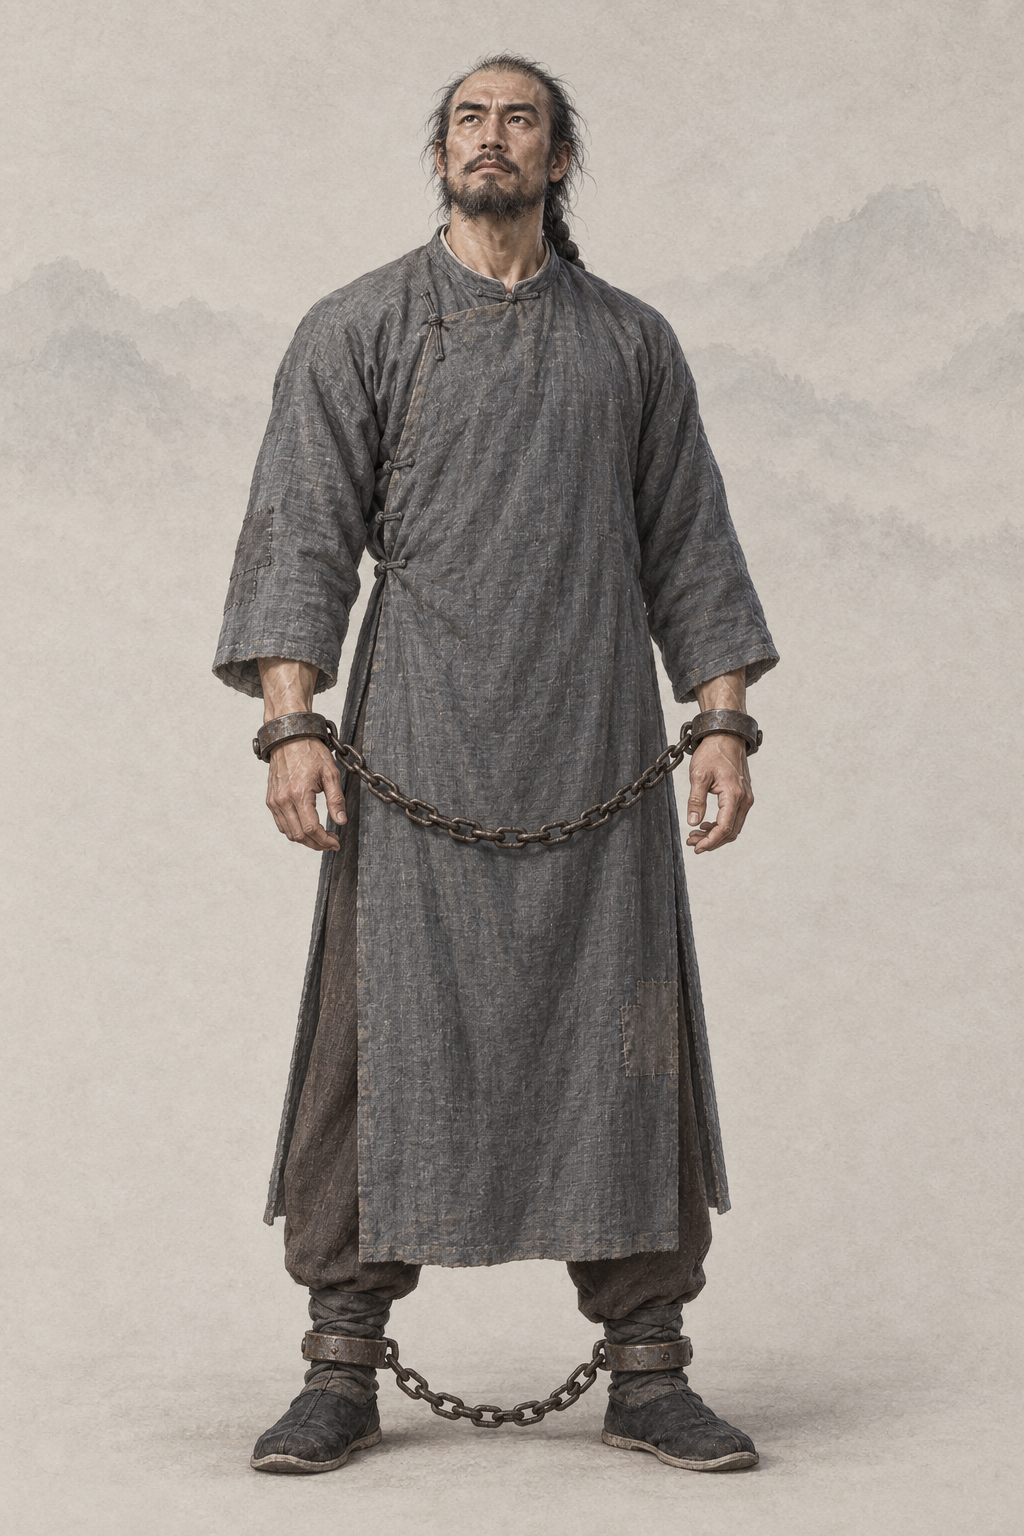
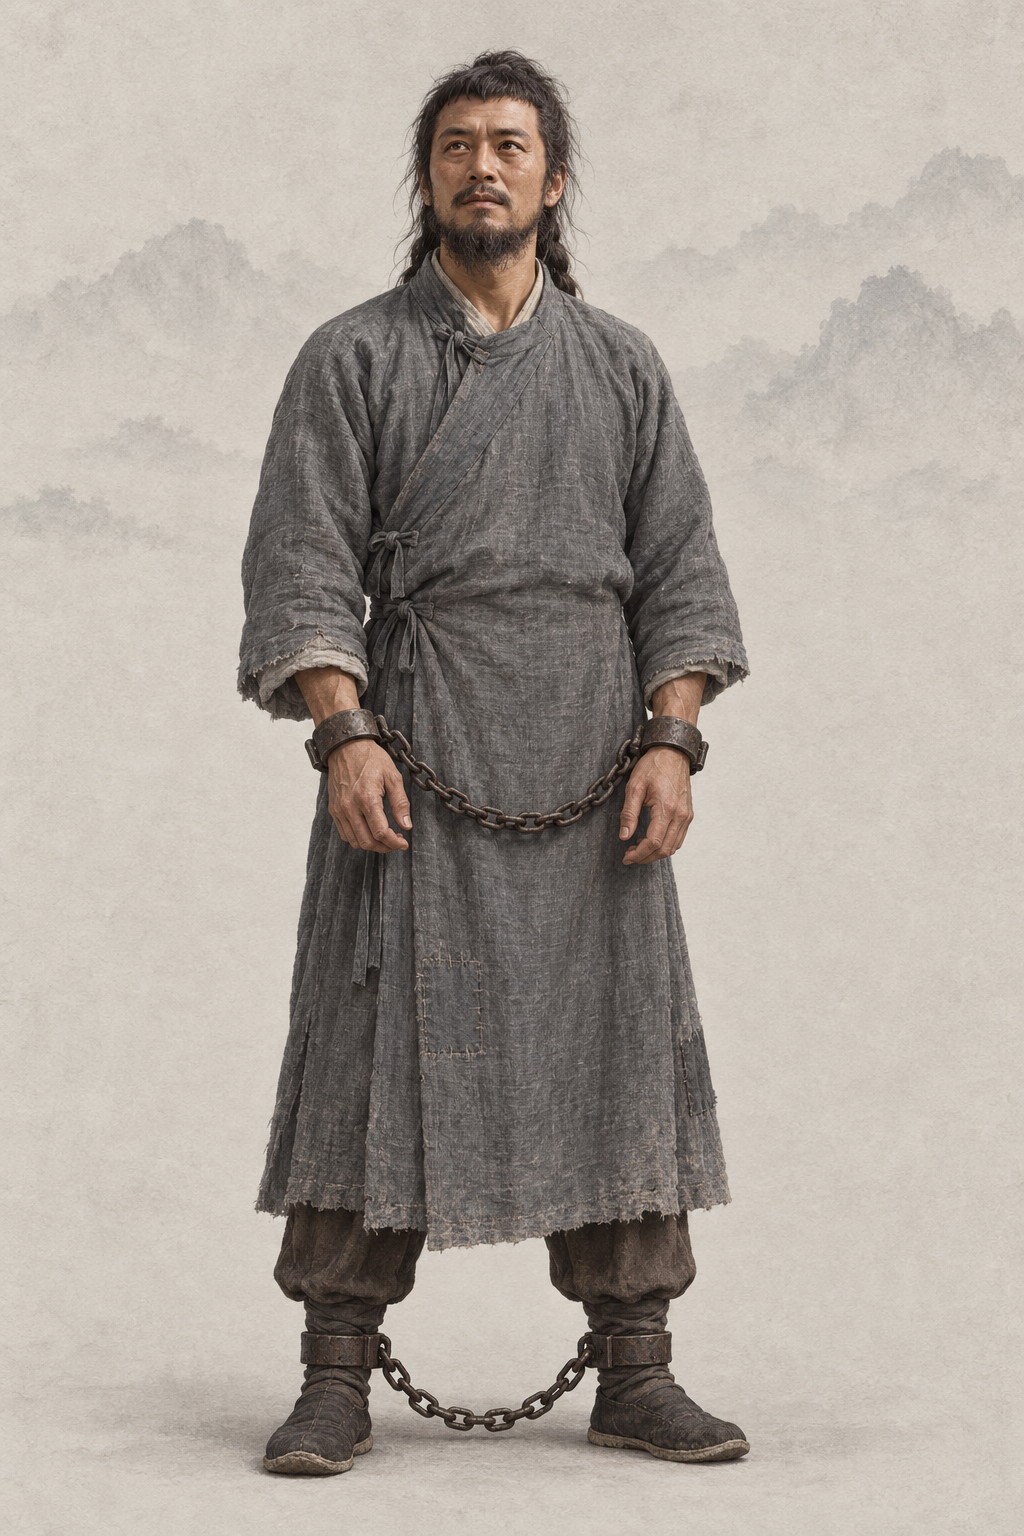
assets(character): por_npc_dingdian__ch09_prime_prison_base 丁典（codex · AR-32 补记修改 B：2004 年内地电视剧《连城诀》（王新民导演，2003 年拍摄、2004 年 7 月首播）；丁典由王海地饰演 剧照 + 基线）
作者 10-02（AR-32 补记）：连城取 2004 版，下载剧照后重出；上一版本机无剧照，只用文字。上传顺序：第 1–2 张为 2004 年《连城诀》丁典剧照（dingdian_2004_wanghaidi_baike04a.jpg、dingdian_2004_wanghaidi_baike04b.jpg 裁去背景石碑文字），最后两张为同性别基线；r1；提示词写回，旧段留作历史。

Changed region(s): [[0.1562, 0.0312, 0.9375, 0.9688], [0.8438, 0.125, 0.875, 0.1562], [0.0938, 0.2188, 0.125, 0.25]]

diff --git a/assets/default/prompts/characters/ch09-liancheng/npc_dingdian.md b/assets/default/prompts/characters/ch09-liancheng/npc_dingdian.md
@@ -12,14 +12,18 @@ references:
   - path: assets/default/baseline/character/male/ref_npc_xiaofeng__ch01_base01.png
     use: 当前仓库 manifest 为 candidate（未通过审批）；只参考纸底、光线、笔触和设色，不沿用脸、体型、服饰或道具
 status: ready
-classic_ref:
-  version: "无剧照（本机没有2004 年《连城诀》电视剧里该角色的剧照，经典造型用文字描写）"
-  stills: []
-  note: "本机没有该角色的经典版剧照，只用文字和两张同性别基线出图（AR-32）"
+codex_prompt_rev: 2026-10-02
+redo_reason: 作者 10-02：连城诀取 2004 版，下载剧照重出（上一版本机无剧照，只用文字）
 reference_upload:
+- .agents/coord/imagegen-reference/identity-20261002/liancheng/dingdian_2004_wanghaidi_baike04a.jpg
+- .agents/coord/imagegen-reference/identity-20261002/liancheng/dingdian_2004_wanghaidi_baike04b.jpg
 - assets/default/baseline/character/male/ref_npc_linghuchong__ch05_base01.png
 - assets/default/baseline/character/male/ref_npc_xiaofeng__ch01_base01.png
-codex_prompt_rev: 2026-10-02
+classic_ref:
+  version: 2004 年内地电视剧《连城诀》（王新民导演，2003 年拍摄、2004 年 7 月首播）；丁典由王海地饰演
+  stills:
+  - .agents/coord/imagegen-reference/identity-20261002/liancheng/dingdian_2004_wanghaidi_baike04a.jpg
+  - .agents/coord/imagegen-reference/identity-20261002/liancheng/dingdian_2004_wanghaidi_baike04b.jpg
 ---
 
 <!-- full-coverage-import:current-policy:v1 -->
@@ -32,6 +36,27 @@ codex_prompt_rev: 2026-10-02
 # 丁典 · 《连城诀》（ch09）
 
 ## Gemini 提示词
+
+> 2026-10-02 AR-32 补记修改 B（9 号出图员，codex exec · image_gen）：作者 10-02（AR-32 补记）：连城取 2004 版，下载剧照后重出；上一版本机无剧照，只用文字。上传顺序：第 1–2 张为 2004 年《连城诀》丁典剧照（dingdian_2004_wanghaidi_baike04a.jpg、dingdian_2004_wanghaidi_baike04b.jpg 裁去背景石碑文字），最后两张为同性别画风基线（缩小版 JPEG）。参考图只借造型、气质与面部特征，画面按项目画风重绘、不复制照片。上一版保留在下一节作历史。
+
+```text
+生成一张 2:3 竖幅全身人物立绘：单人、单一视角、完整全身——头顶、双手、双脚和手中器物的两端都在画面内，四周留出自然空白；人物站姿自然，身体基本朝向正面，头部端正（不歪头、不仰不俯），镜头平视。
+【参考图】第 1–2 张参考图是该角色经典影视造型的剧照：借鉴其发型、服饰、配色、标志道具、气质和面部特征，让人一眼认出是这个角色；但必须重新绘制成项目画风，不要照片质感，不要照搬剧照的构图、光影、背景和姿势，也不要做成照片修图。最后两张是本项目画风基线：画风、用色、光线、质感和暖浅灰纸底加淡水墨背景以它们为准。
+【剧照借鉴要点】剧照是他入狱前在菊花会上的样子：只借脸型、五官、浓眉和温厚沉毅的神情；狱中的乱发浓须、囚衣与铁镣按下文文字画，不要照搬剧照里的白衣和披发。
+【画风】写实手绘古风人物插画，与本项目写实武侠角色立绘同一画风，像功力深厚的画师用细腻笔触画出的真实人物。手绘插画质感，不是 CG 渲染：不要过度光滑的皮肤、完美对称的五官、塑料高光、过度锐利的发丝；保留自然的笔触和细微不完美。皮肤有真实质感——细小毛孔、细纹、晒痕和自然的左右不对称，不磨皮、不油亮；头发是一缕缕自然的发丝和少量碎发；布料看得出经纬纹理、厚薄和自然垂坠的褶皱，带穿用过的轻微旧化，但完整不破烂；整体设色低饱和、沉稳；柔和的自然光从左上方照来，明暗过渡自然，不打舞台光、轮廓光或美颜柔光。不是照片，不是三维渲染，不是动漫或游戏 CG，也不是油画（没有厚涂笔触和画布纹理）。
+【背景】不透明的暖浅灰色纸底，只在远处有极淡的水墨远山和薄雾，大面积留白；人物与背景明暗分明、轮廓边缘干净完整（后续要自动抠图），水墨和纸纹只在背景里，不侵入人物和衣服；脚下只有很淡的一点接触阴影。
+【人物】丁典，《连城诀》中梅念笙的传人、神照经的唯一传人；被囚在荆州大牢多年、与狄云结下信任、尚未中毒出狱的时期，日日隔着窗子望凌霜华窗台上的菊花。
+【年龄与体态】约三十五岁的壮年男子，身材高大魁伟，肩背宽厚、前臂粗壮，约七个半头身；多年牢狱让面颊削瘦，但脊背挺直，武人气度不减。
+【经典造型】要一眼认出是狱中的丁典——乱发浓须、铁灰粗布囚衣、手脚都锁着旧铁镣，身形魁伟、神情沉毅温厚，抬头望向高处的窗口；是落难的英雄，不是凶徒，粗犷而有男人味。
+【面容】照剧照的脸型和五官（同一个人在狱中多年后的样子）：宽长的脸，直而宽的鼻梁；浓黑的眉毛，深陷而明亮的眼睛，目光沉静坚定，望着高处时透出温柔的牵挂；满脸未经修剪的浓须，杂乱但不遮住眼睛和嘴；颧骨在削瘦的脸上显得突出；肤色是久不见日光的灰黄，有真实的毛孔、细纹和风霜。
+【发式】清初俗家男子发式，但久囚失修：前额剃过的地方长出一层短发茬，脑后的辫子松散粗乱，垂在背后；鬓发蓬乱。
+【服饰】铁灰色粗布长衣（清初圆领大襟右衽，衣襟从领口斜向右腋下扣合）、暗褐色长裤、旧布鞋；衣物磨旧、有一两处补丁，但完整、遮蔽严实，不是带「囚」字的制服。
+【道具与姿态】空手，不拿兵器；双腕和双踝各锁着一副旧铁镣，短铁链松松垂下，不连到画外；宽肩打开、脊背挺直，双手低垂略分开，头微抬，目光望向高处（像在看窗台上的菊花），双脚稳稳站着，不跨过链条。
+【不要】画面里不要任何文字、题款、印章、签名、水印、边框、分格或多视图；不要第二个人；不要幼态（童颜、娃娃脸、婴儿肥、儿童或少年身材、大头小身）；不要塑料感皮肤、磨皮美颜、网红脸（尖下巴大眼高鼻的模板脸）、过度对称、浓妆、偶像式打光、蜡像感；不要照片质感，不要像剧照照片、照片修图或拼贴，不要照搬剧照的背景、光影、构图和姿势；不要三维渲染或动漫大眼；不要歪头、斜镜头；不要多指、缺指（设定的伤残除外）、手与器物粘连或悬空；衣襟必须右衽（穿着者的左襟压在右襟上），不要左衽（设定为少数民族服制的除外），不要水平镜像；不要现代物品、发光特效、法阵或能量光。不要整洁的书生装、白衣或英雄头巾；不要血迹、伤口、骷髅或刑具以外的锁链墙；不要发光的经脉或气功特效；不要第二个人或凌霜华；不要老态龙钟；不要明代发髻或网巾；不要日式服饰。
+【画风基线】随提示词上传的参考图里，最后两张是本项目的立绘画风基线：只参考它们的画风、用色、光线、质感和暖浅灰纸底加淡水墨的背景处理，整体画风必须与它们一致——精细写实的数字手绘插画，不是油画，不要厚涂笔触和画布纹理。基线图只取画风，不取长相：不要照搬基线图里人物的长相、年龄、发型、服饰和姿势。
+```
+
+## AR-32 补记修改前的 Gemini 提示词（6 号出图员版；2026-10-02 上午，历史，不再用于出图）
 
 > 2026-10-02 AR-32 经典剧照重出（6 号出图员，codex exec · image_gen 出图）：本机没有该角色剧照：只上传两张同性别基线，经典造型用文字描写。剧照只借鉴发型、服饰、配色、标志道具、气质与面部特征，重新绘制成项目画风，不照搬照片的构图、光影和姿势；人物一律成年；清代男子按清制剃额留辫。提示词里不写演员名。上一版提示词保留在下一节作历史。
 
